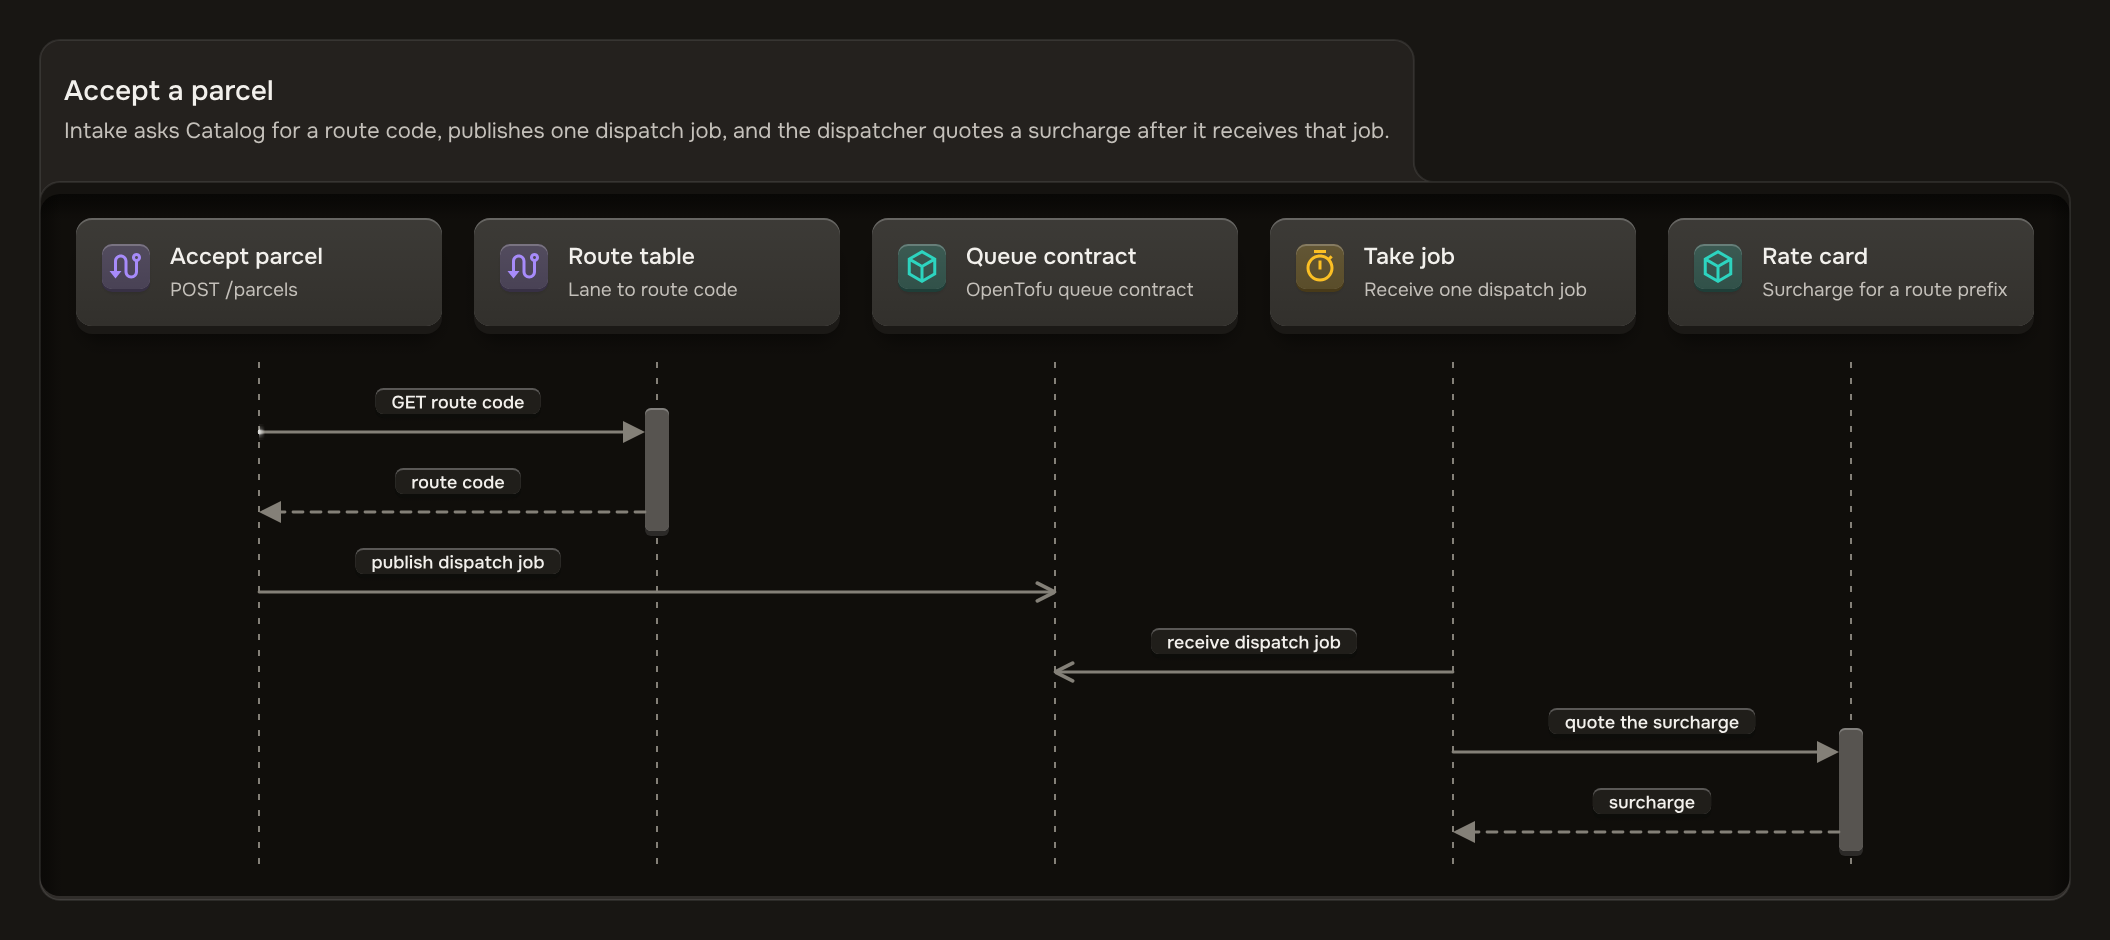
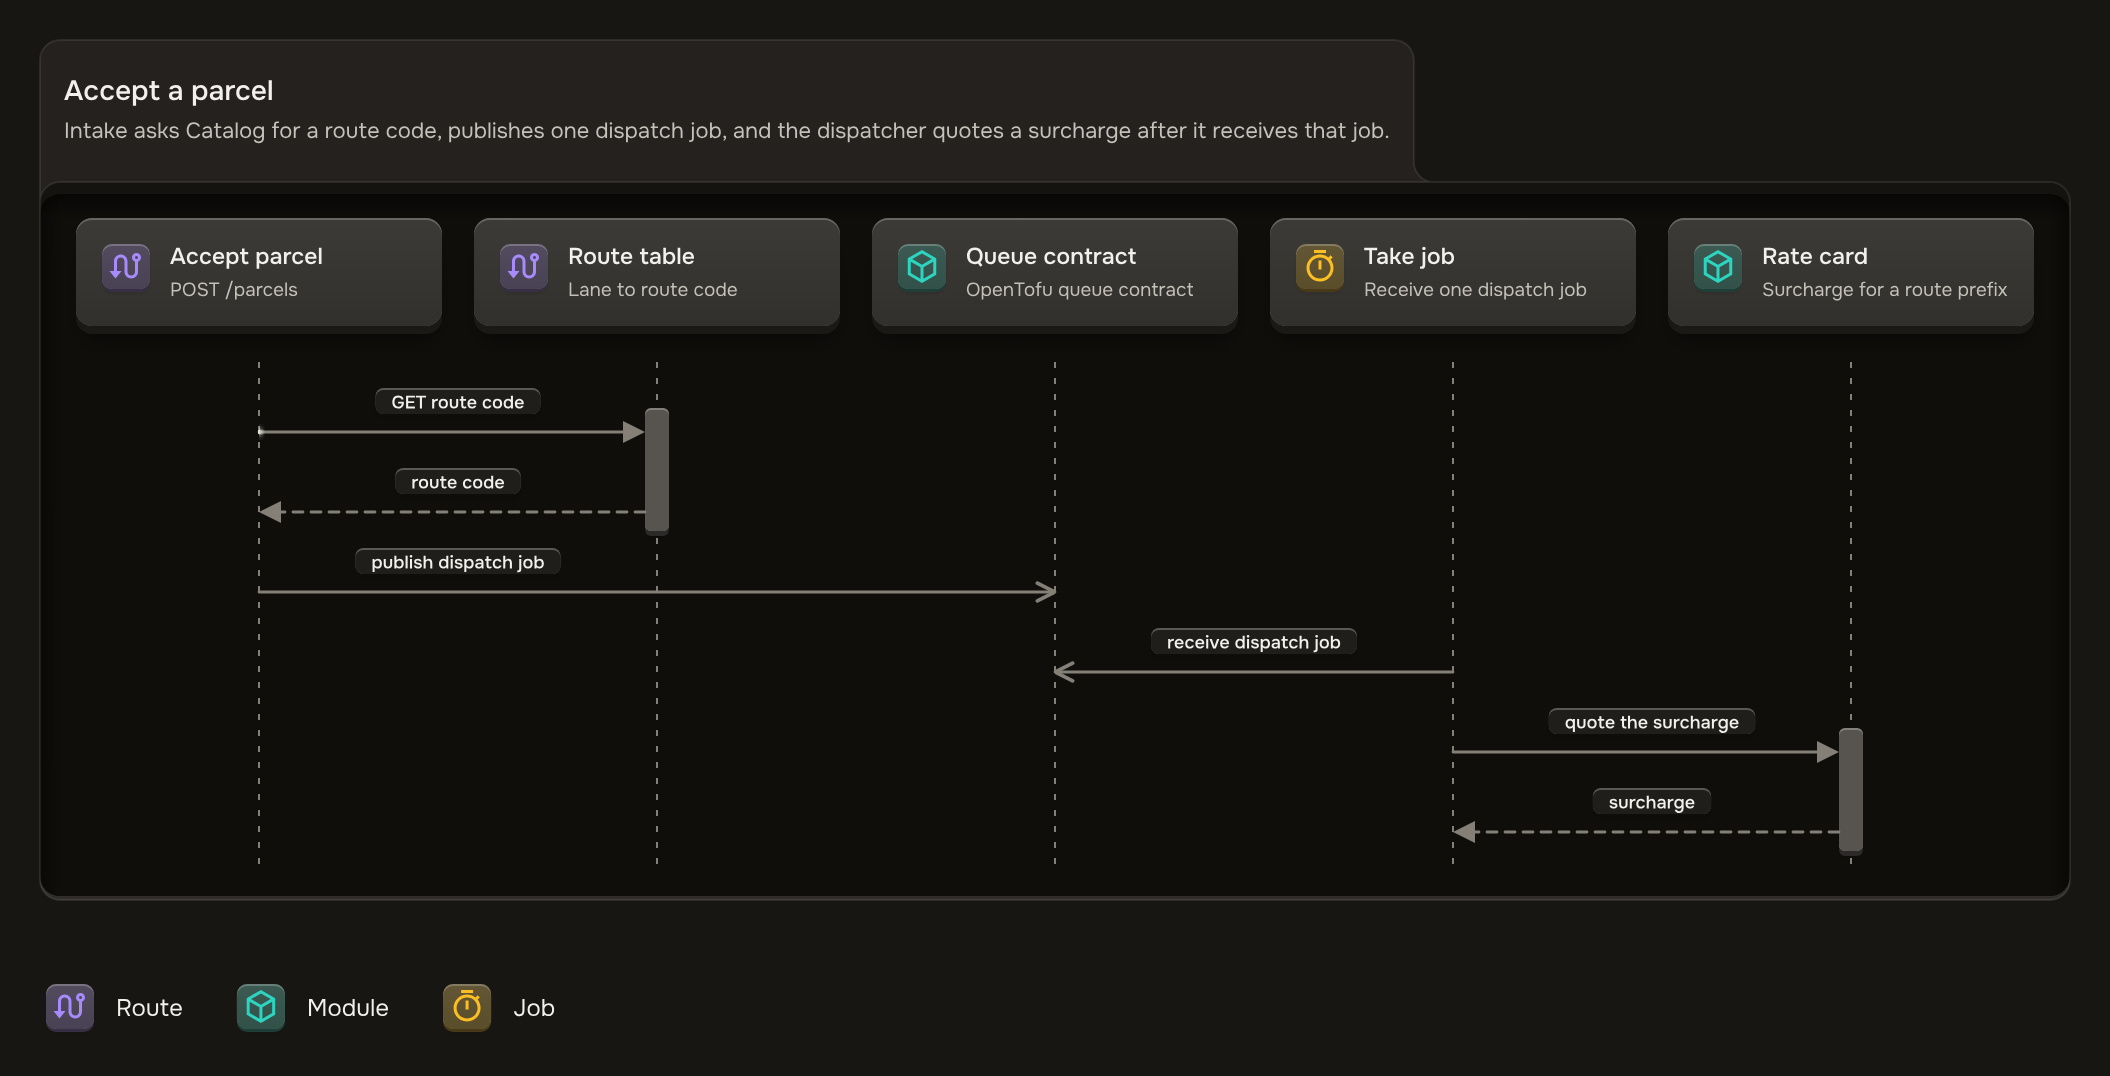
build: pin @archboard/cli 0.3.0, and redraw the pictures with its renderer

diff --git a/README.md b/README.md
@@ -75,7 +75,7 @@ npm run setup
 npm run check
 ```
 
-`npm ci` installs the pinned `@archboard/cli@0.1.0`. This repository does not build Archboard.
+`npm ci` installs the pinned `@archboard/cli@0.3.0`. This repository does not build Archboard.
 `npm run setup` registers both checkouts with Archboard. It looks for the infrastructure checkout in
 `../archboard-relay-example-infra`. If that directory is missing, it clones the repository from GitHub.
 Set `RELAY_INFRA_DIR` to use another directory.
